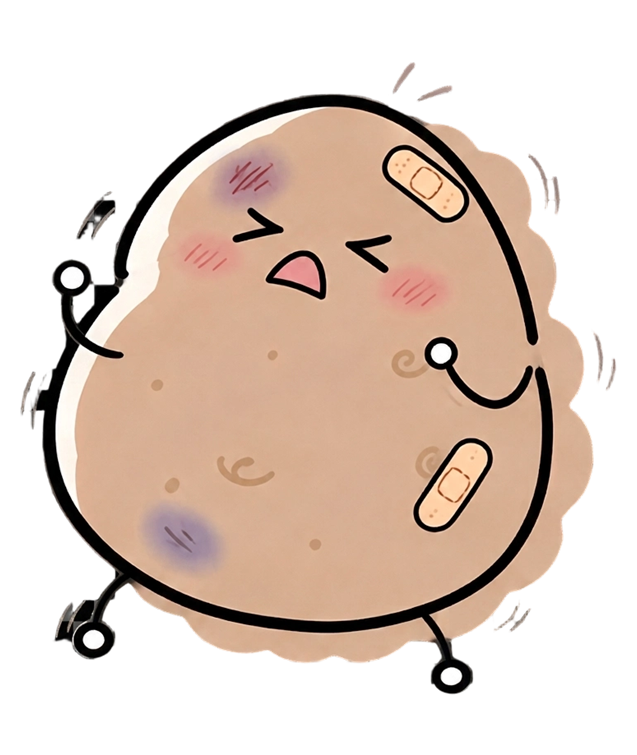
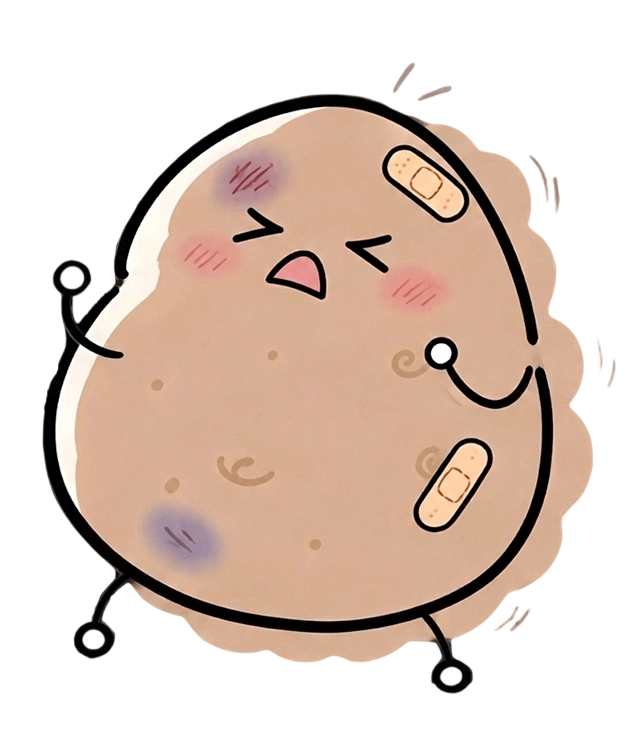
fix: 修好连击数字不消失与水枪静音，同步 state_2_hit 素材
1. 连击超时后右上角数字不消失
   真因是 CSS visibility 的继承陷阱：renderStreak() 只把父容器设成 hidden，
   而 renderStrip() 给每个复用的 <img> 写了内联 visibility:visible，
   子元素自己声明 visible 会盖掉父级的 hidden，数字照旧画在屏幕上。
   新增 hideBadge() 连子元素一起隐藏。

2. 水枪按到第 6 下之后完全静音
   原判断 !S.wet 把整段水声一起挡掉了，而湿身期间每按一次都会 armDryUp() 续命 4 秒，
   于是连按水枪从第 6 下起再无声音，随机台词也永远轮不到（用户因此以为水枪没有随机音频）。
   改为只排除「即将变湿」那一下（willWet）。

3. 湿身超时同样依赖 setTimeout，补绝对时刻判定
   新增 wetEndsAtMs 与 checkWetTimeout()，回前台与每次按水枪前补判，对齐连击超时的做法。

测试：95 断言全通过（三档视口 iphone14/se/ipad 各 95/95 + 冻结测试 [A][B] 双 PASS），
自检页 21/21，无 JS 异常、无 console.error。两项修复均做过反向验证（改回旧写法能 FAIL）。

diff --git a/game.js b/game.js
@@ -325,6 +325,7 @@ var S = {
   randomLineBlockedUntil: 0,
   squirtTotal: 0,                   // 水枪累计，跨轮不清零，只用于「前 10 下不出台词」
   streakEndsAtMs: 0,                // 连击到期的绝对时刻，用于从后台回来时补判超时
+  wetEndsAtMs: 0,                   // 湿身到期的绝对时刻，同上（iOS 后台会冻住 setTimeout）
 
   lineDurationMs: 0,
   lineEndsAtMs: 0,
@@ -477,10 +478,21 @@ function renderTotal() {
   totalLabel.textContent = '总暴打 ' + S.totalHits;
 }
 
+// 隐藏一个徽章容器 —— 必须连子元素一起隐藏！
+// visibility 是继承属性，但子元素一旦自己声明了 visible 就会盖掉父元素的 hidden。
+// renderStrip() 会给每个复用的 <img> 写内联 visibility:visible，
+// 所以只设容器 style.visibility='hidden' 的话，数字会照旧画在屏幕上
+// （用户报的「一段时间不打，右上角计数不消失」就是这个）。
+function hideBadge(host) {
+  host.style.visibility = 'hidden';
+  var pool = host._pool || [];
+  for (var i = 0; i < pool.length; i++) pool[i].style.visibility = 'hidden';
+}
+
 // 连击徽章：贴在土豆右上角外侧；数字贴在一个随机爆点上
 function renderStreak() {
   if (!S.streakVisible || S.streakHits <= 0) {
-    streakBadge.style.visibility = 'hidden';
+    hideBadge(streakBadge);
     return;
   }
   var L = layout;
@@ -792,6 +804,7 @@ function showProp(which, ms) {
 
 function armDryUp() {
   if (dryUpTimer) clearTimeout(dryUpTimer);
+  S.wetEndsAtMs = Date.now() + WET_HOLD_MS;
   dryUpTimer = setTimeout(exitWet, WET_HOLD_MS);
 }
 
@@ -827,10 +840,23 @@ function enterWet() {
 }
 function exitWet() {
   if (!S.wet) return;
+  if (dryUpTimer) clearTimeout(dryUpTimer);
   dryUpTimer = null;
+  S.wetEndsAtMs = 0;
   S.wet = false;
   showFrame(currentStateFrame());
   applyPropLayout();
+}
+
+// 与连击超时同源：iOS 会把后台标签页的 setTimeout 一起冻住，
+// 只靠定时器会出现「早该干了、湿身却一直挂着」→ 水枪再也发不出声音。
+// 页面重新可见时、以及每次按水枪前都按绝对时刻补判一次。
+function checkWetTimeout() {
+  if (S.wet && S.wetEndsAtMs > 0 && Date.now() >= S.wetEndsAtMs) {
+    exitWet();
+    return true;
+  }
+  return false;
 }
 
 /* ---- 水枪按钮 ---- */
@@ -839,15 +865,19 @@ function playSquirtSound() {
 }
 function doSquirt() {
   clickTick();
+  checkWetTimeout();                                   // 后台冻结回来时，早该干了就先干掉
   S.squirtTotal++;                                     // 跨轮不清零，只服务「前 10 下不出台词」
 
-  // 这一下就要变湿（或已经湿着）时不播水声 —— 与 Android squirt() 的判断范围逐字一致。
-  // 前 SQUIRT_LINE_BLOCK_CLICKS 下不参与随机台词，先把水声铺垫出来。
-  if (!S.wet && S.squirtCount + 1 < SQUIRT_HITS_TO_WET) {
-    if (!lineIsPlaying() && S.squirtTotal > SQUIRT_LINE_BLOCK_CLICKS) {
+  // willWet = 这一下就要变湿。此时不播水声（紧接着 enterWet 会播 line_wet 语音）。
+  // 注意这里**只**排除「即将变湿」那一下，不能再写成 !S.wet：
+  // 湿身期间每按一次水枪都会 armDryUp() 续命 4 秒，若把整段水声一起挡掉，
+  // 用户连按水枪就会从第 6 下开始完全没声音（用户报的「五次触发语音后水声消失」）。
+  var willWet = !S.wet && (S.squirtCount + 1 >= SQUIRT_HITS_TO_WET);
+  if (!willWet && !lineIsPlaying()) {
+    if (S.squirtTotal > SQUIRT_LINE_BLOCK_CLICKS) {
       if (!playRandomLineIfLucky(false)) playSquirtSound();
-    } else if (!lineIsPlaying()) {
-      playSquirtSound();
+    } else {
+      playSquirtSound();                               // 前 10 下不参与随机台词，先把水声铺垫出来
     }
   }
 
@@ -956,7 +986,7 @@ function bindEvents() {
   // 因为 iOS 冻结标签页时 setTimeout 也一起停了，定时器可能还没轮到就已经过期。
   document.addEventListener('visibilitychange', function () {
     if (document.visibilityState === 'hidden') saveStats();
-    else checkStreakTimeout();
+    else { checkStreakTimeout(); checkWetTimeout(); }
   });
   window.addEventListener('pagehide', function () { saveStats(); });
 }
@@ -1050,6 +1080,7 @@ function boot() {
     resetStreak: resetStreak,
     exitWet: exitWet,
     checkStreakTimeout: checkStreakTimeout,
+    checkWetTimeout: checkWetTimeout,
     rerollThresholds: rerollThresholds,
     isValidThresholds: isValidThresholds,
     nearUpgradeNode: nearUpgradeNode,
